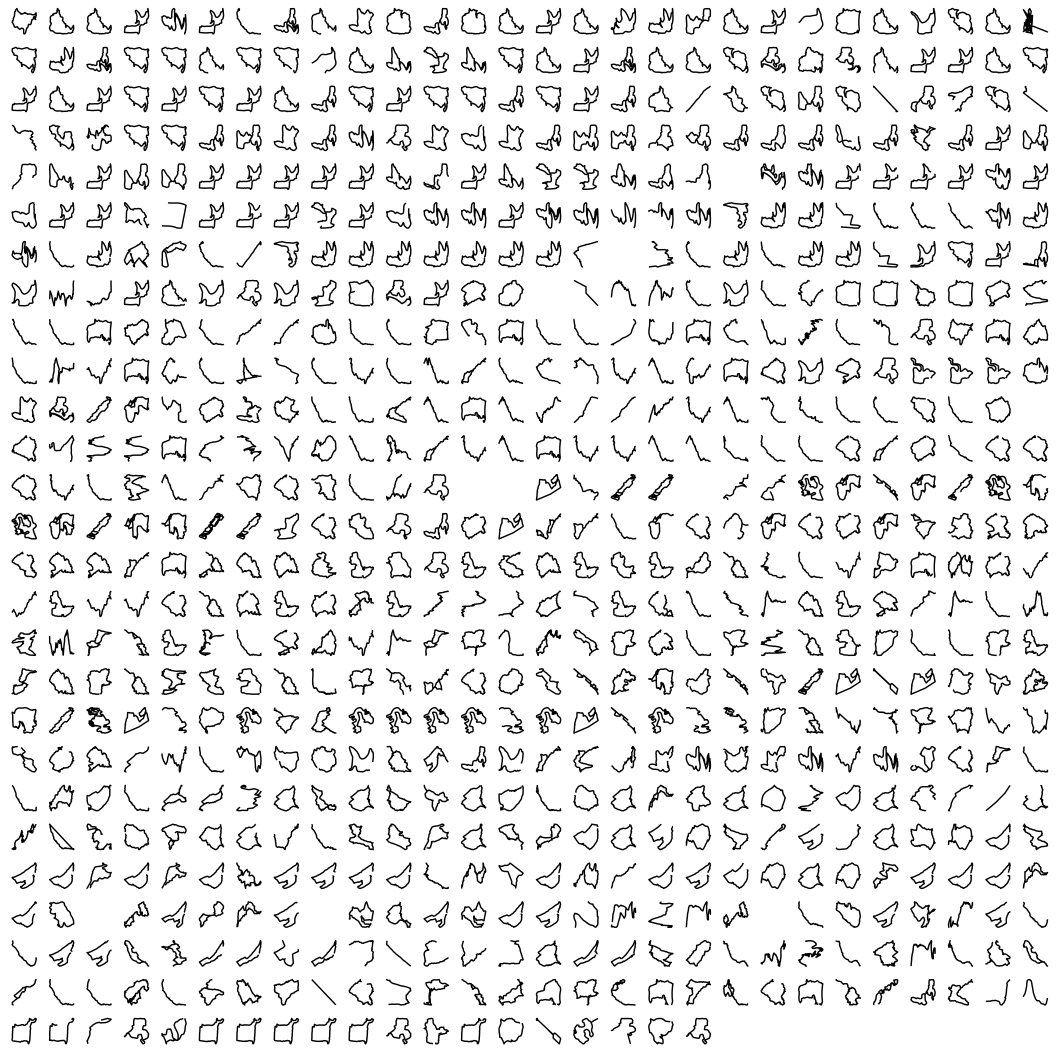
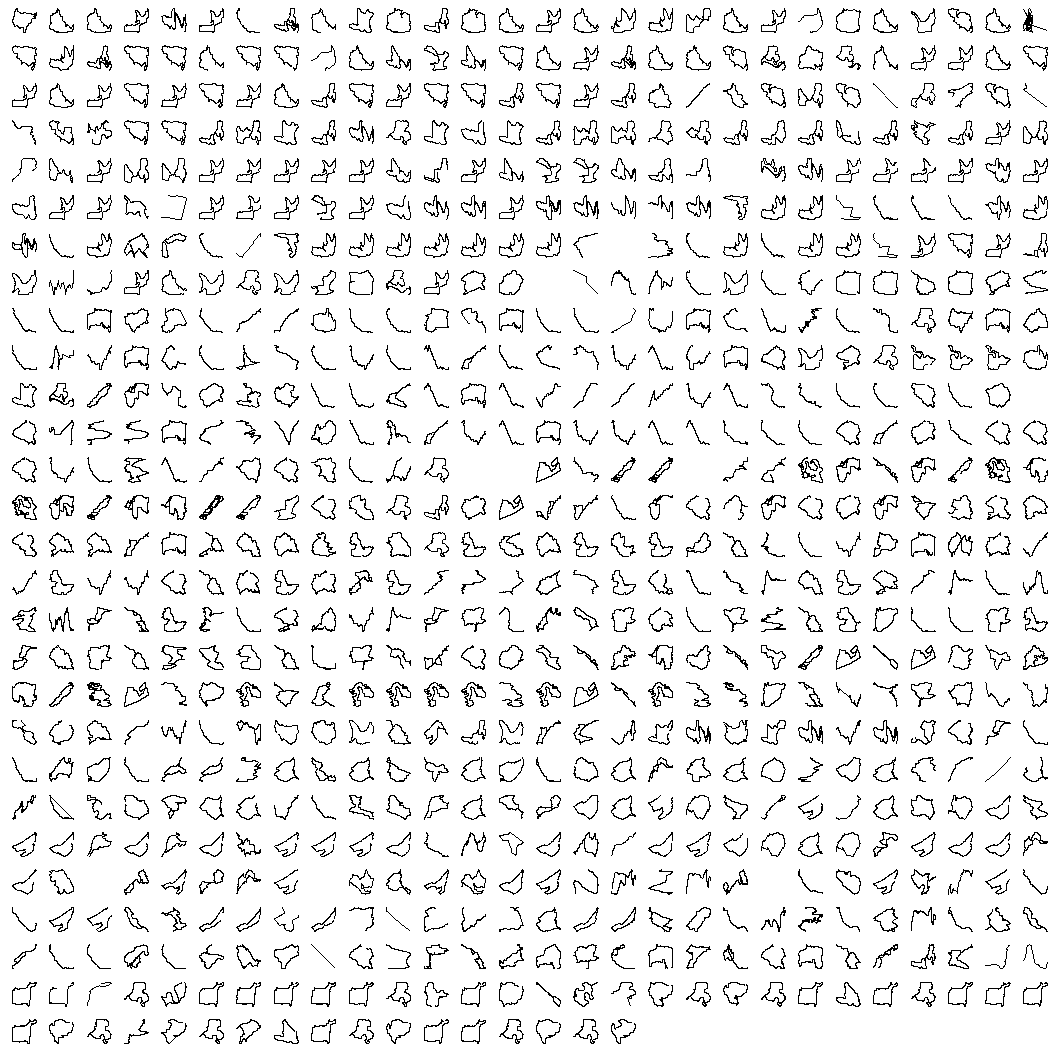
Update

Changed region(s): [[0.0, 0.0, 1.0, 1.0]]

diff --git a/README.md b/README.md
@@ -148,20 +148,20 @@ activities to read.
 
 The resulting data frame consists of one row per activity:
 
-    ## # A tibble: 748 × 57
+    ## # A tibble: 774 × 57
     ##    resourc…¹ athle…² name  dista…³ movin…⁴ elaps…⁵ total…⁶ type  sport…⁷ worko…⁸
     ##        <int>   <int> <chr>   <dbl>   <int>   <int>   <dbl> <chr> <chr>     <int>
-    ##  1         2  2.68e7 "Sta…   5017     2476    2545   135.  Run   Run           0
-    ##  2         2  2.68e7 "Cui…   6432.    2868    3010   114.  Run   Run           0
-    ##  3         2  2.68e7 "Sta…   3544.    1717    5552    89.6 Run   Run           0
-    ##  4         2  2.68e7 "Zwi…   5527.     760     760    27   Virt… Virtua…      NA
-    ##  5         2  2.68e7 "Zwi…   5268.     842    1001    38   Virt… Virtua…      NA
-    ##  6         2  2.68e7 "3 K…   5101.    2424    2449   101.  Run   Run           0
-    ##  7         2  2.68e7 "Too…   4511     1950    1989    39.1 Run   Run           0
-    ##  8         2  2.68e7 "New…  33394.    5238    5283   457   Ride  Ride         10
-    ##  9         2  2.68e7 "Chr…   5056.    2217    2276   126.  Run   Run           0
-    ## 10         2  2.68e7 "Bit…   4614.    1958    2021    39.2 Run   Run           0
-    ## # … with 738 more rows, 48 more variables: athlete$resource_state <int>,
+    ##  1         2  2.68e7 "Har…   6602.    3231    3313   126.  Run   Run           0
+    ##  2         2  2.68e7 "Pio…   5036.    2518    2545   134.  Run   Run           0
+    ##  3         2  2.68e7 "Com…   5875.    2812    2905   119.  Run   Run           0
+    ##  4         2  2.68e7 "Zei…   5044.    2507    2553   134.  Run   Run           0
+    ##  5         2  2.68e7 "Auf…   4593.    2059    2097    39   Run   Run           0
+    ##  6         2  2.68e7 "Auf…   4658.    2059    2176    39   Run   Run           0
+    ##  7         2  2.68e7 "11k…   6349.    2938    3083   115.  Run   Run           0
+    ##  8         2  2.68e7 "Auf…   4870.    2351    2453   127.  Run   Run           0
+    ##  9         2  2.68e7 "Har…   4547.    1998    2112    38.9 Run   Run           0
+    ## 10         2  2.68e7 "Zei…   5325.    2403    2805   129.  Run   Run           0
+    ## # … with 764 more rows, 48 more variables: athlete$resource_state <int>,
     ## #   id <dbl>, start_date <dttm>, start_date_local <chr>, timezone <chr>,
     ## #   utc_offset <dbl>, location_city <lgl>, location_state <lgl>,
     ## #   location_country <chr>, achievement_count <int>, kudos_count <int>,
